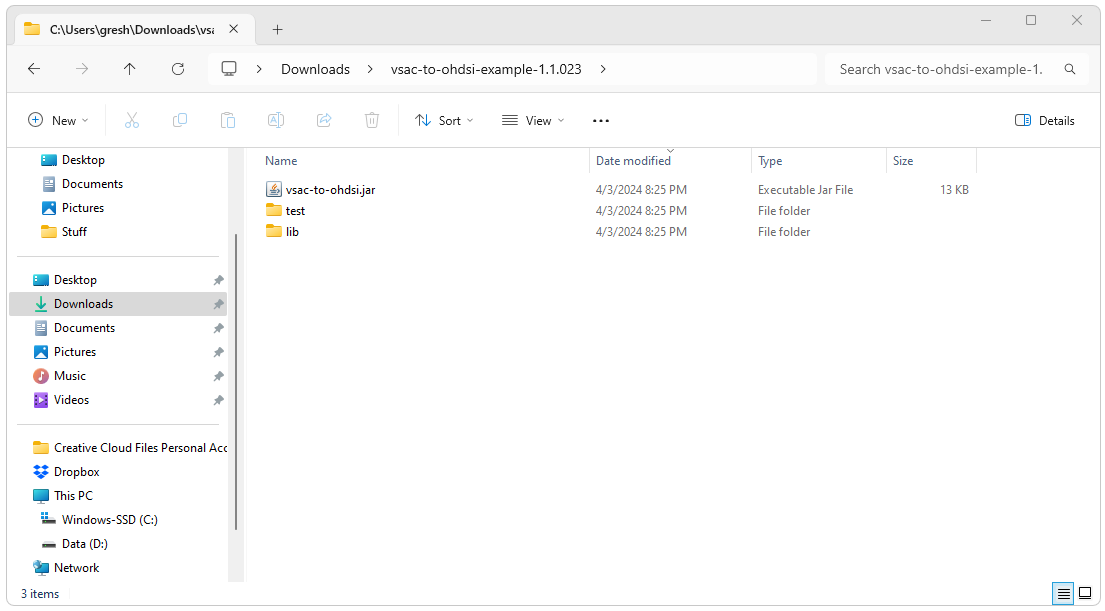
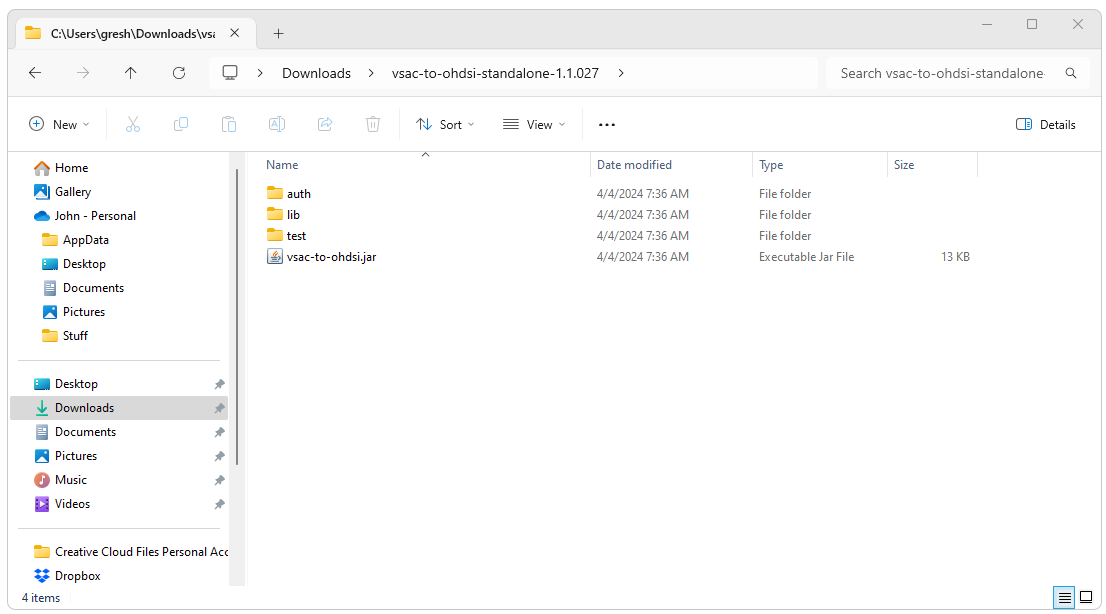
Updating documentation

diff --git a/docs/getting-started-vsac-to-ohdsi.html b/docs/getting-started-vsac-to-ohdsi.html
@@ -452,7 +452,8 @@ here
 Download and install the vsac-to-ohdsi standalone application
 </li>
 <li>
-Configure the connection to your instance of the CDM
+Configure the connection to your instance of the CDM and other
+properties
 </li>
 <li>
 Run the vsac-to-ohdsi standalone application to generate OHDSI
@@ -491,11 +492,14 @@ the latest release. <br/> <img
     onclick="openFullSizeImage('./img/getting-started/vsac-to-ohdsi/02-download.png')" 
     title="Click to see full size."
   /> <br/> <br/> After extracting the zip file you should see a folder
-that contains the vsac-to-ohdsi.jar file, a test folder, and a lib
-folder. The vsac-to-ohdsi.jar file is the executable for the standalone
-application. The test folder contains some files from VSAC that can be
-used for testing. The lib folder contains the jar files for the
-dependencies of the standalone application. <br/> <img 
+that contains the vsac-to-ohdsi.jar file, a test folder, a lib folder,
+and an auth folder. The vsac-to-ohdsi.jar file is the executable for the
+standalone application. The test folder contains some files from VSAC
+that can be used for testing. The lib folder contains the jar files for
+the dependencies of the standalone application. The auth folder contains
+the configuration files that will be use to configure this application
+for your specific implementation (e.g. database type, schema name,
+database connectivity, etc.). <br/> <img 
     src="img/getting-started/vsac-to-ohdsi/03-extracted.png" 
     onclick="openFullSizeImage('./img/getting-started/vsac-to-ohdsi/03-extracted.png')" 
     title="Click to see full size."
@@ -503,14 +507,52 @@ dependencies of the standalone application. <br/> <img
 </div>
 <!---
 *
-* Configure Connection
+* Configure 
 *
 * -->
 </div>
-<div id="configure-connection" class="section level2">
-<h2>Configure Connection</h2>
+<div id="configure" class="section level2">
+<h2>Configure</h2>
 <div style="text-align: justify;">
-
+There are only a few parameters that need to be configured to run
+vsac-to-ohdsi. To update the configuration with your parameters:
+<ul>
+<li>
+Open the ./auth folder
+</li>
+<li>
+Open the auth.properties file
+</li>
+<li>
+Update this file with your configuration
+</li>
+</ul>
+<p>The auth.properties provided by default includes the following. If
+you are using Databricks you will only need to change the url and the
+token values.</p>
+<pre><code>JdbcUrl=jdbc:spark://nachc-databricks.cloud.databricks.com:443/vsac_to_omop;transportMode=http;ssl=1;httpPath=sql/protocolv1/o/3956472157536757/0123-223459-leafy532;AuthMech=3;UID=token;PWD=
+Token=MY_SECRET_TOKEN_GOES_HERE
+SchemaName=vsac_to_omop
+DatabaseType=spark</code></pre>
+The only required parameters are:
+<ul>
+<li>
+<b>JdbcUrl</b><br/> The url that points the the CDM schema that contains
+the vocabulary tables you are using
+</li>
+<li>
+<b>Token</b><br/> The token/password that will be used to connect to the
+database
+</li>
+<li>
+<b>SchemaName</b><br/> The name of the database that contains the
+vocabulary tables you are using
+</li>
+<li>
+<b>DatabaseType</b><br/> The RDMS that will be used (e.g. Spark
+(Databricks), PostgreSql, MS SqlServer, etc.)
+</li>
+</ul>
 </div>
 <!---
 *
